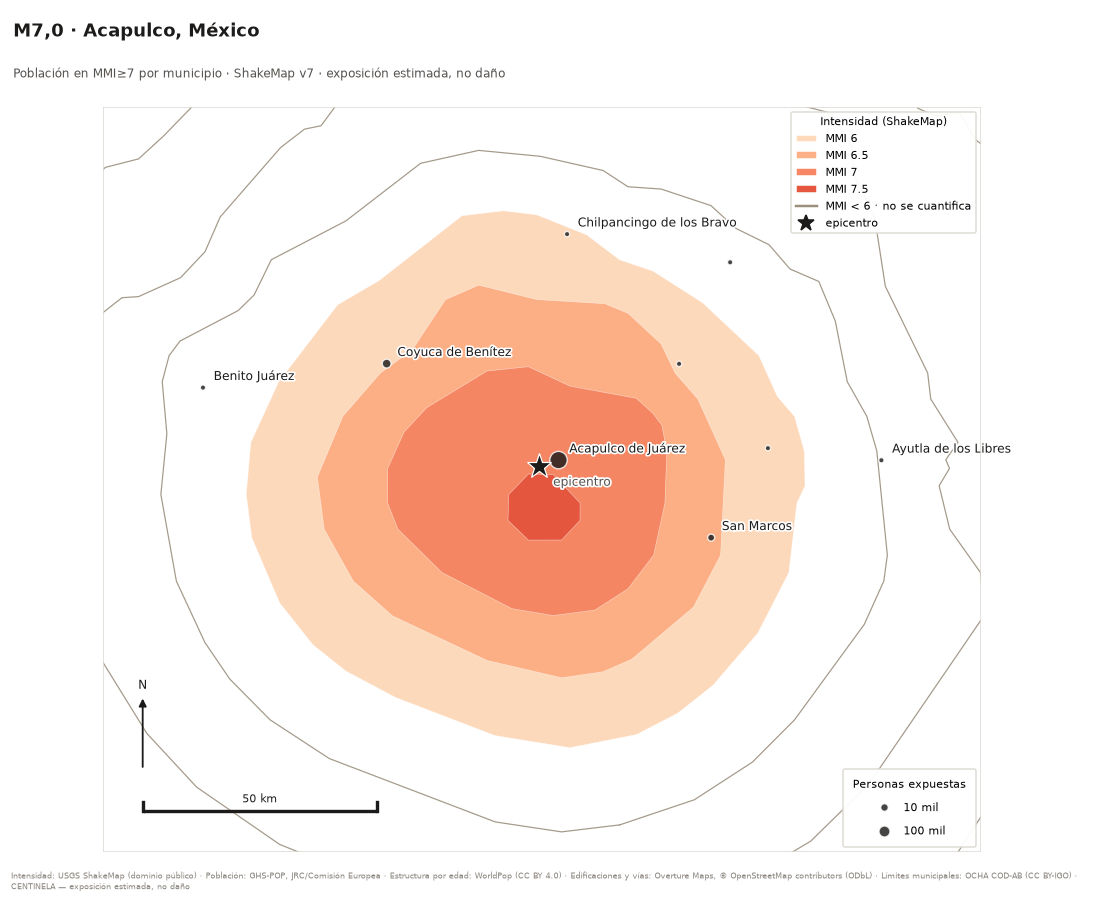
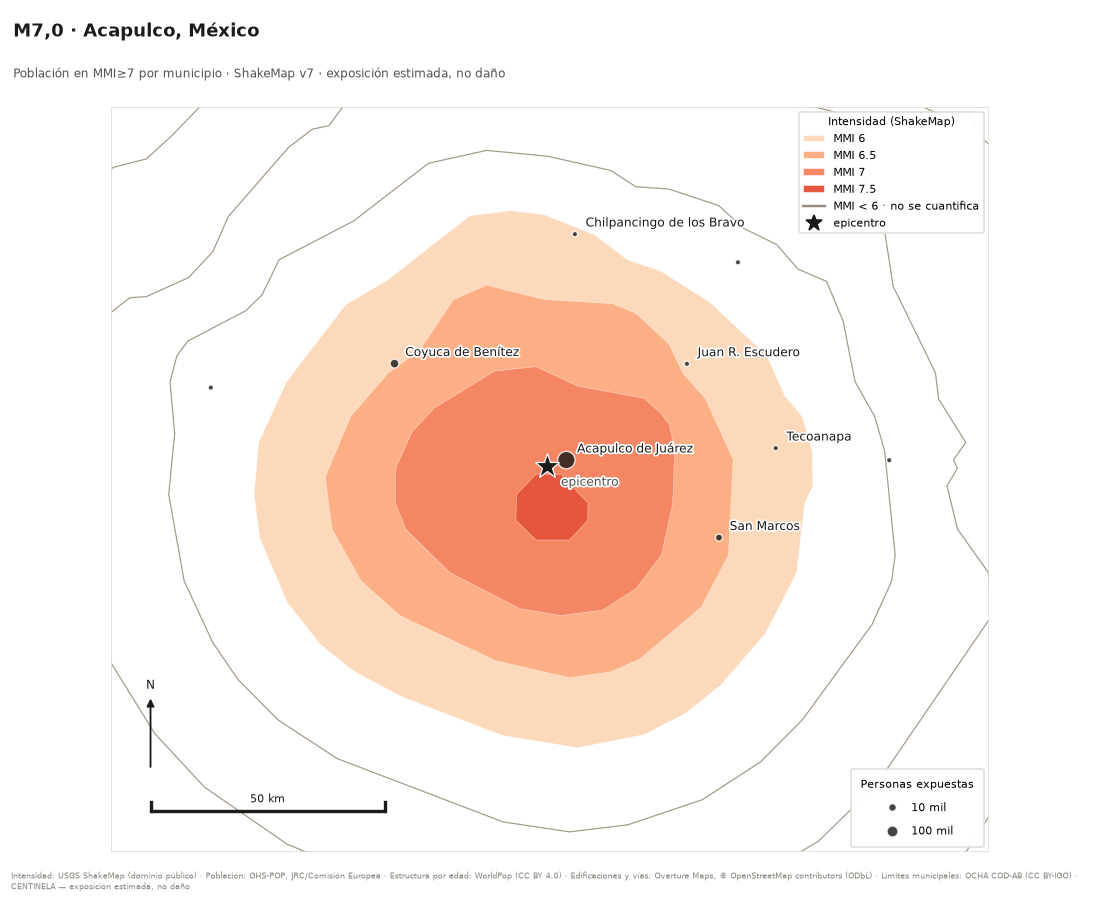
P3: reporte de us7000f93v

diff --git a/reports/us7000f93v/report.md b/reports/us7000f93v/report.md
@@ -14,8 +14,8 @@
 | Población en MMI≥7 | 910 mil |
 | Población en MMI≥8 | el evento no llegó a esta banda |
 | Edificaciones en MMI≥7 | 330 mil |
-| Sedes de salud en MMI≥7 | 152 |
-| Sedes educativas en MMI≥7 | 3.132 |
+| Sedes de salud en MMI≥7 | 155 |
+| Sedes educativas en MMI≥7 | 3.295 |
 | Vías primarias y secundarias en MMI≥7 | 650 km |
 | Vías locales en MMI≥7 | 4.200 km |
 | Superficie construida en MMI≥7 | 46,8 km² |
@@ -54,6 +54,12 @@ Las dos cifras **no se tabulan igual** y no se pueden leer una contra otra: PAGE
 
 Discrepancia entre GHS-POP y WorldPop en las bandas MMI publicadas: **9,9 %**.
 
+## Cambios frente a la versión anterior
+
+- Recálculo con el mismo ShakeMap v7 (us) (cambió el cálculo o el activo de exposición, no USGS)
+- Sedes de salud en MMI≥7: 150 → 160
+- Sedes educativas en MMI≥7: 3.100 → 3.300
+
 ## Descargas
 
 - [CSV por municipio](adm2.csv)
@@ -61,10 +67,10 @@ Discrepancia entre GHS-POP y WorldPop en las bandas MMI publicadas: **9,9 %**.
 
 ## Procedencia
 
-- ShakeMap consumido: **v7**
-- Ground Failure consumido: **v3**
-- Manifiesto de exposición: [`mex-v0.4`](https://github.com/sforero77/CENTINELA/blob/main/data/manifests/MEX.yaml)
-- Pipeline: `0.1.0` · Generado: 2026-09-28T15:45:03Z
+- ShakeMap consumido: **v7** de `us`
+- Ground Failure consumido: **v3** de `us`
+- Manifiesto de exposición: [`mex-v0.5`](https://github.com/sforero77/CENTINELA/blob/main/data/manifests/MEX.yaml)
+- Pipeline: `0.1.0` · Generado: 2026-11-02T17:21:41Z
 
 ## Advertencias
 
